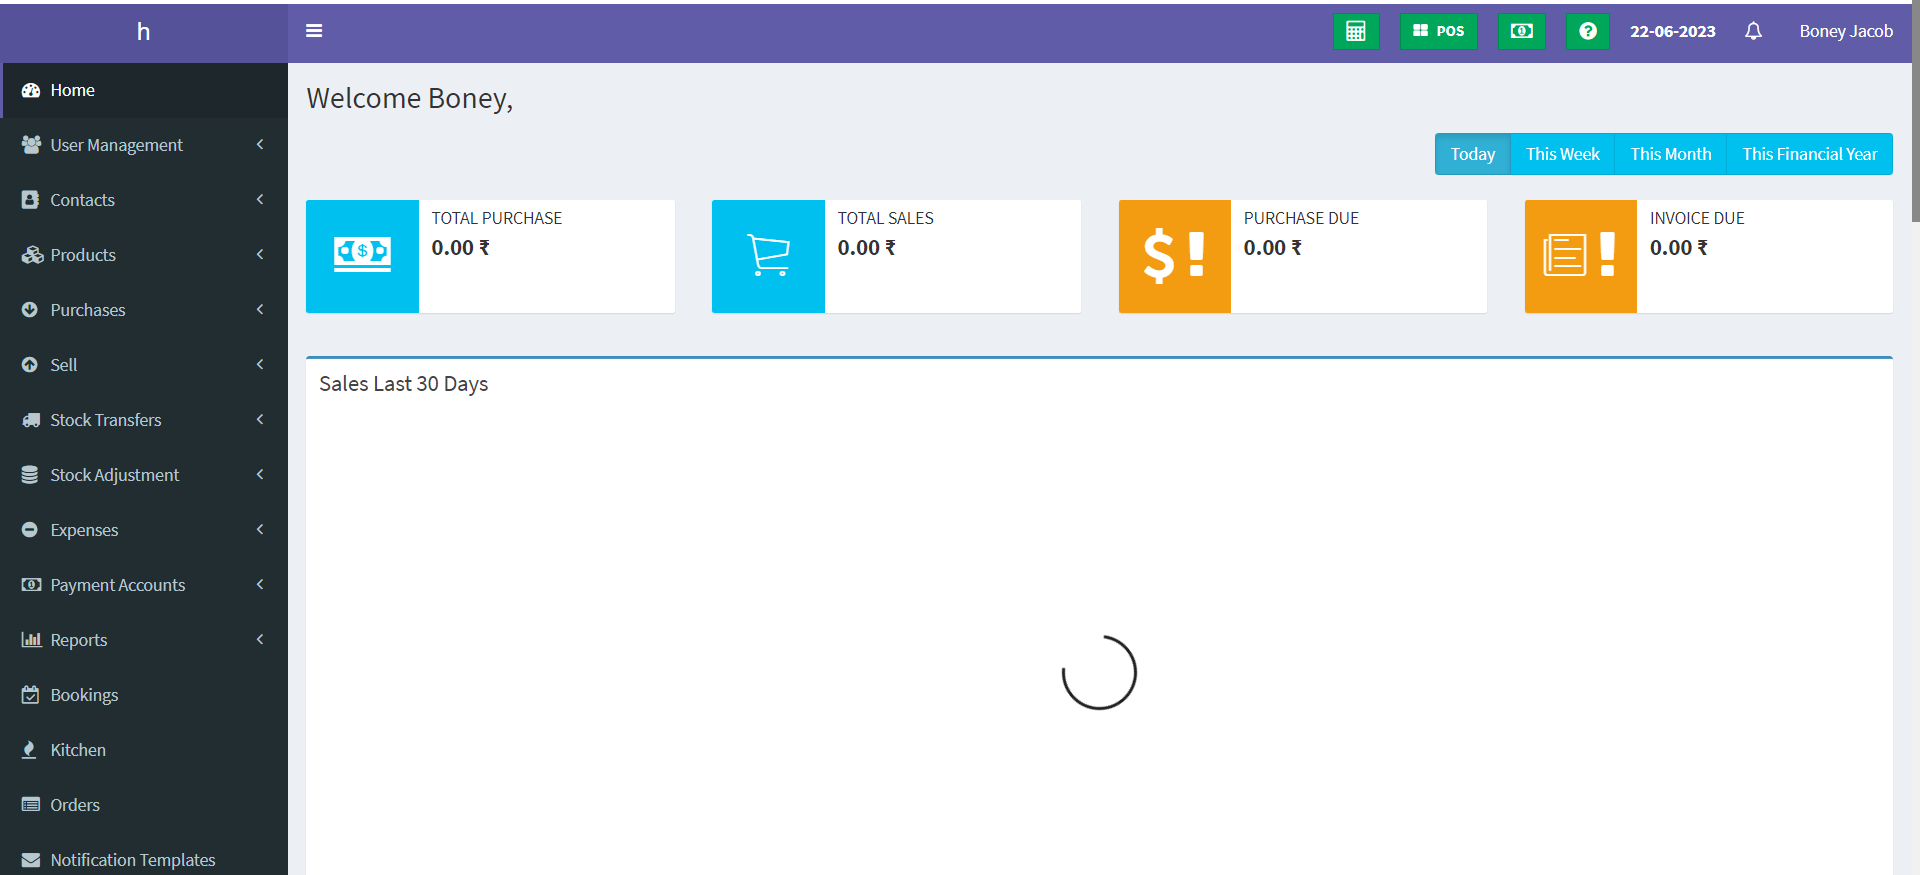
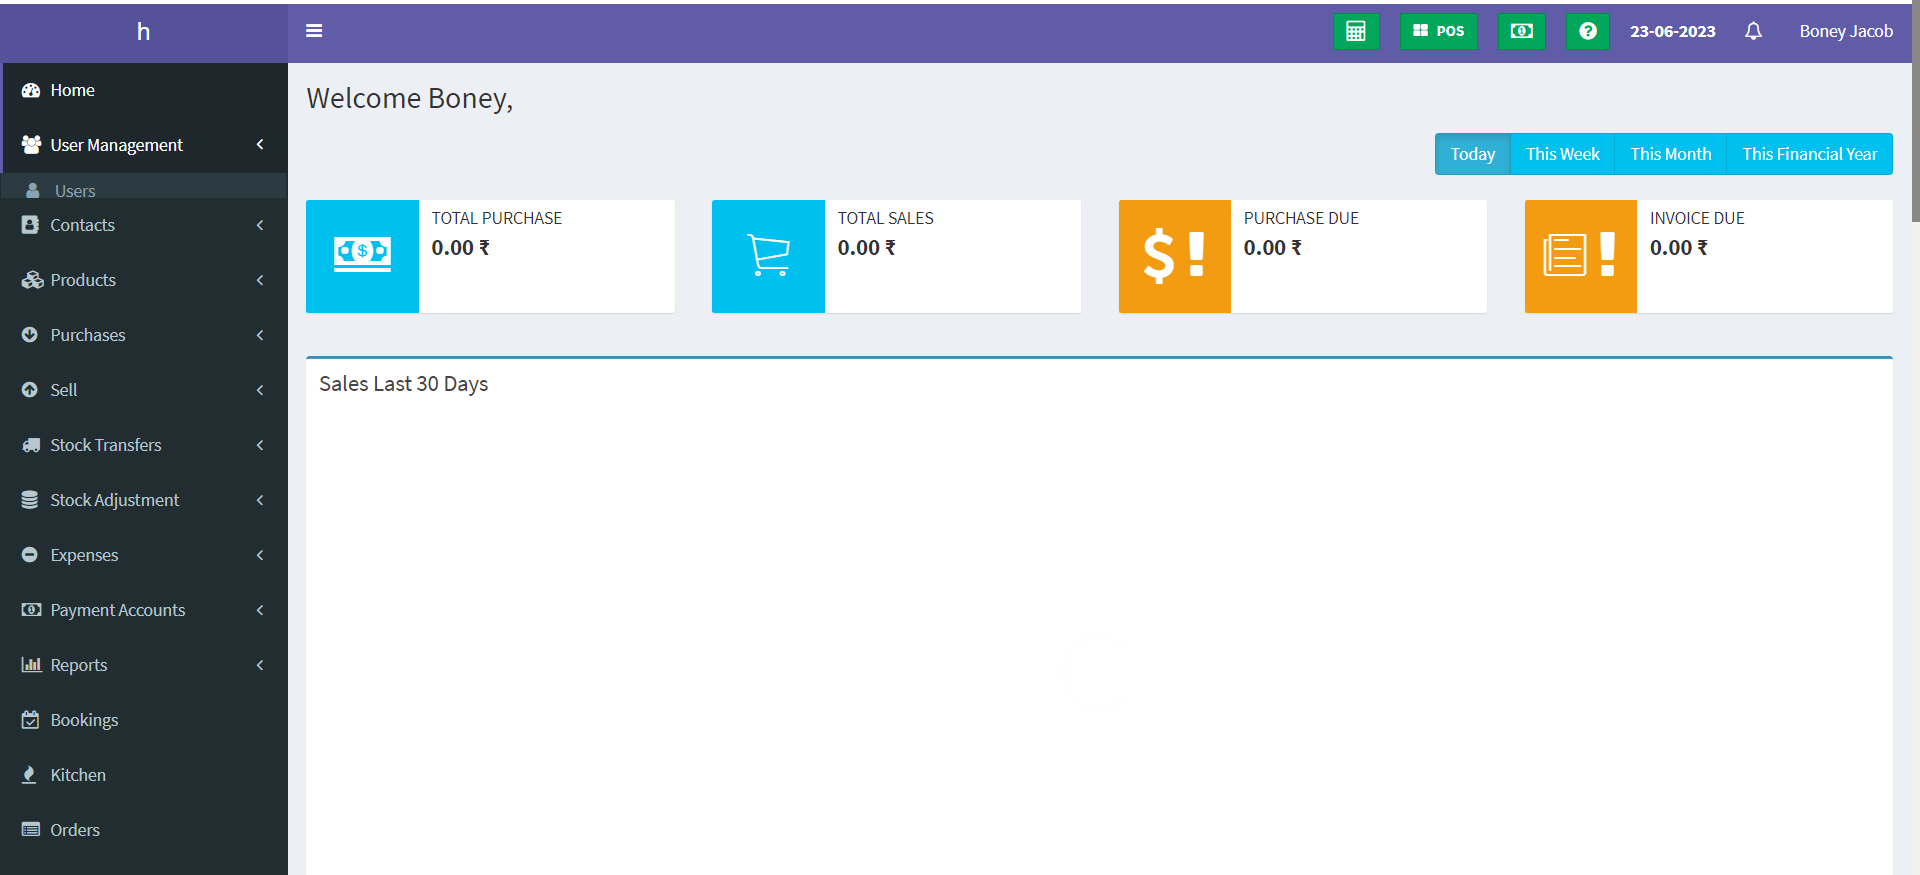
Updated test cases

Changed region(s): [[0.0, 0.216, 0.125, 1.0], [0.0, 0.1543, 0.0938, 0.1851], [0.5625, 0.8023, 0.5938, 0.8331]]

diff --git a/test-output/index.html b/test-output/index.html
@@ -50,7 +50,7 @@
               <ul>
                 <li>
                   <a href="#" panel-name="test-xml-Default_suite" class="navigator-link ">
-                    <span>C:\Users\hp\AppData\Local\Temp\testng-eclipse-1383577407\testng-customsuite.xml</span>
+                    <span>C:\Users\hp\AppData\Local\Temp\testng-eclipse-367124420\testng-customsuite.xml</span>
                   </a> <!-- navigator-link  -->
                 </li>
                 <li>
@@ -137,7 +137,7 @@
         </div> <!-- panel Default_suite -->
         <div panel-name="test-xml-Default_suite" class="panel">
           <div class="main-panel-header rounded-window-top">
-            <span class="header-content">C:\Users\hp\AppData\Local\Temp\testng-eclipse-1383577407\testng-customsuite.xml</span>
+            <span class="header-content">C:\Users\hp\AppData\Local\Temp\testng-eclipse-367124420\testng-customsuite.xml</span>
           </div> <!-- main-panel-header rounded-window-top -->
           <div class="main-panel-content rounded-window-bottom">
             <pre>
@@ -194,12 +194,12 @@ data.addRows(1);
 data.setCell(0, 0, 0)
 data.setCell(0, 1, 'TC_007_verifyInvalidUserSearch')
 data.setCell(0, 2, 'com.QALegendBilling.testscript.UserTest')
-data.setCell(0, 3, 3574);
+data.setCell(0, 3, 8495);
 window.suiteTableData['Default_suite']= { tableData: data, tableDiv: 'times-div-Default_suite'}
 return data;
 }
               </script>
-              <span class="suite-total-time">Total running time: 3 seconds</span>
+              <span class="suite-total-time">Total running time: 8 seconds</span>
               <div id="times-div-Default_suite">
               </div> <!-- times-div-Default_suite -->
             </div> <!-- times-div -->
@@ -234,20 +234,20 @@ return data;
             <div class="chronological-class">
               <div class="chronological-class-name">com.QALegendBilling.testscript.UserTest</div> <!-- chronological-class-name -->
               <div class="configuration-suite before">
-                <span class="method-name">setExtent(org.testng.TestRunner@4b391e45)</span>
+                <span class="method-name">setExtent(org.testng.TestRunner@6d86d1ad)</span>
                 <span class="method-start">0 ms</span>
               </div> <!-- configuration-suite before -->
               <div class="configuration-method before">
                 <span class="method-name">setUP</span>
-                <span class="method-start">620 ms</span>
+                <span class="method-start">621 ms</span>
               </div> <!-- configuration-method before -->
               <div class="test-method">
                 <span class="method-name">TC_007_verifyInvalidUserSearch(boneyj, Accenture@123)</span>
-                <span class="method-start">7532 ms</span>
+                <span class="method-start">16421 ms</span>
               </div> <!-- test-method -->
               <div class="configuration-method after">
                 <span class="method-name">tearDown([TestResult name=TC_007_verifyInvalidUserSearch status=SUCCESS method=UserTest.TC_007_verifyInvalidU...)</span>
-                <span class="method-start">11109 ms</span>
+                <span class="method-start">24917 ms</span>
               </div> <!-- configuration-method after -->
           </div> <!-- main-panel-content rounded-window-bottom -->
         </div> <!-- panel -->

diff --git a/test-output/old/Default suite/methods.html b/test-output/old/Default suite/methods.html
@@ -1,12 +1,12 @@
 <h2>Methods run, sorted chronologically</h2><h3>&gt;&gt; means before, &lt;&lt; means after</h3><p/><br/><em>Default suite</em><p/><small><i>(Hover the method name to see the test class name)</i></small><p/>
 <table border="1">
 <tr><th>Time</th><th>Delta (ms)</th><th>Suite<br>configuration</th><th>Test<br>configuration</th><th>Class<br>configuration</th><th>Groups<br>configuration</th><th>Method<br>configuration</th><th>Test<br>method</th><th>Thread</th><th>Instances</th></tr>
-<tr bgcolor="d076c9">  <td>23/06/22 22:54:24</td>   <td>0</td> <td>&nbsp;</td><td>&nbsp;</td><td>&nbsp;</td><td>&nbsp;</td><td title="&lt;&lt;Base.tearDown(org.testng.ITestResult)[pri:0, instance:com.QALegendBilling.testscript.UserTest@4efc180e]">&lt;&lt;tearDown</td> 
+<tr bgcolor="d076c9">  <td>23/06/24 01:15:11</td>   <td>0</td> <td>&nbsp;</td><td>&nbsp;</td><td>&nbsp;</td><td>&nbsp;</td><td title="&lt;&lt;Base.tearDown(org.testng.ITestResult)[pri:0, instance:com.QALegendBilling.testscript.UserTest@4efc180e]">&lt;&lt;tearDown</td> 
 <td>&nbsp;</td>  <td>main@670663110</td>   <td></td> </tr>
-<tr bgcolor="c2937c">  <td>23/06/22 22:54:21</td>   <td>-3577</td> <td>&nbsp;</td><td>&nbsp;</td><td>&nbsp;</td><td>&nbsp;</td><td>&nbsp;</td><td title="UserTest.TC_007_verifyInvalidUserSearch(java.lang.String,java.lang.String)[pri:0, instance:com.QALegendBilling.testscript.UserTest@4efc180e]">TC_007_verifyInvalidUserSearch</td> 
+<tr bgcolor="d076c9">  <td>23/06/24 01:14:46</td>   <td>-24296</td> <td>&nbsp;</td><td>&nbsp;</td><td>&nbsp;</td><td>&nbsp;</td><td title="&gt;&gt;Base.setUP()[pri:0, instance:com.QALegendBilling.testscript.UserTest@4efc180e]">&gt;&gt;setUP</td> 
+<td>&nbsp;</td>  <td>main@670663110</td>   <td></td> </tr>
+<tr bgcolor="c2937c">  <td>23/06/24 01:15:02</td>   <td>-8496</td> <td>&nbsp;</td><td>&nbsp;</td><td>&nbsp;</td><td>&nbsp;</td><td>&nbsp;</td><td title="UserTest.TC_007_verifyInvalidUserSearch(java.lang.String,java.lang.String)[pri:0, instance:com.QALegendBilling.testscript.UserTest@4efc180e]">TC_007_verifyInvalidUserSearch</td> 
   <td>main@670663110</td>   <td></td> </tr>
-<tr bgcolor="d076c9">  <td>23/06/22 22:54:14</td>   <td>-10488</td> <td>&nbsp;</td><td>&nbsp;</td><td>&nbsp;</td><td>&nbsp;</td><td title="&gt;&gt;Base.setUP()[pri:0, instance:com.QALegendBilling.testscript.UserTest@4efc180e]">&gt;&gt;setUP</td> 
-<td>&nbsp;</td>  <td>main@670663110</td>   <td></td> </tr>
-<tr bgcolor="d076c9">  <td>23/06/22 22:54:13</td>   <td>-11102</td> <td title="&gt;&gt;Base.setExtent(org.testng.ITestContext)[pri:0, instance:com.QALegendBilling.testscript.UserTest@4efc180e]">&gt;&gt;setExtent</td> 
+<tr bgcolor="d076c9">  <td>23/06/24 01:14:46</td>   <td>-24909</td> <td title="&gt;&gt;Base.setExtent(org.testng.ITestContext)[pri:0, instance:com.QALegendBilling.testscript.UserTest@4efc180e]">&gt;&gt;setExtent</td> 
 <td>&nbsp;</td><td>&nbsp;</td><td>&nbsp;</td><td>&nbsp;</td><td>&nbsp;</td>  <td>main@670663110</td>   <td></td> </tr>
 </table>

diff --git a/test-output/old/Default suite/methods-alphabetical.html b/test-output/old/Default suite/methods-alphabetical.html
@@ -1,12 +1,12 @@
 <h2>Methods run, sorted chronologically</h2><h3>&gt;&gt; means before, &lt;&lt; means after</h3><p/><br/><em>Default suite</em><p/><small><i>(Hover the method name to see the test class name)</i></small><p/>
 <table border="1">
 <tr><th>Time</th><th>Delta (ms)</th><th>Suite<br>configuration</th><th>Test<br>configuration</th><th>Class<br>configuration</th><th>Groups<br>configuration</th><th>Method<br>configuration</th><th>Test<br>method</th><th>Thread</th><th>Instances</th></tr>
-<tr bgcolor="c2937c">  <td>23/06/22 22:54:21</td>   <td>0</td> <td>&nbsp;</td><td>&nbsp;</td><td>&nbsp;</td><td>&nbsp;</td><td>&nbsp;</td><td title="UserTest.TC_007_verifyInvalidUserSearch(java.lang.String,java.lang.String)[pri:0, instance:com.QALegendBilling.testscript.UserTest@4efc180e]">TC_007_verifyInvalidUserSearch</td> 
+<tr bgcolor="c2937c">  <td>23/06/24 01:15:02</td>   <td>0</td> <td>&nbsp;</td><td>&nbsp;</td><td>&nbsp;</td><td>&nbsp;</td><td>&nbsp;</td><td title="UserTest.TC_007_verifyInvalidUserSearch(java.lang.String,java.lang.String)[pri:0, instance:com.QALegendBilling.testscript.UserTest@4efc180e]">TC_007_verifyInvalidUserSearch</td> 
   <td>main@670663110</td>   <td></td> </tr>
-<tr bgcolor="d076c9">  <td>23/06/22 22:54:13</td>   <td>-7525</td> <td title="&gt;&gt;Base.setExtent(org.testng.ITestContext)[pri:0, instance:com.QALegendBilling.testscript.UserTest@4efc180e]">&gt;&gt;setExtent</td> 
+<tr bgcolor="d076c9">  <td>23/06/24 01:14:46</td>   <td>-16413</td> <td title="&gt;&gt;Base.setExtent(org.testng.ITestContext)[pri:0, instance:com.QALegendBilling.testscript.UserTest@4efc180e]">&gt;&gt;setExtent</td> 
 <td>&nbsp;</td><td>&nbsp;</td><td>&nbsp;</td><td>&nbsp;</td><td>&nbsp;</td>  <td>main@670663110</td>   <td></td> </tr>
-<tr bgcolor="d076c9">  <td>23/06/22 22:54:14</td>   <td>-6911</td> <td>&nbsp;</td><td>&nbsp;</td><td>&nbsp;</td><td>&nbsp;</td><td title="&gt;&gt;Base.setUP()[pri:0, instance:com.QALegendBilling.testscript.UserTest@4efc180e]">&gt;&gt;setUP</td> 
+<tr bgcolor="d076c9">  <td>23/06/24 01:14:46</td>   <td>-15800</td> <td>&nbsp;</td><td>&nbsp;</td><td>&nbsp;</td><td>&nbsp;</td><td title="&gt;&gt;Base.setUP()[pri:0, instance:com.QALegendBilling.testscript.UserTest@4efc180e]">&gt;&gt;setUP</td> 
 <td>&nbsp;</td>  <td>main@670663110</td>   <td></td> </tr>
-<tr bgcolor="d076c9">  <td>23/06/22 22:54:24</td>   <td>3577</td> <td>&nbsp;</td><td>&nbsp;</td><td>&nbsp;</td><td>&nbsp;</td><td title="&lt;&lt;Base.tearDown(org.testng.ITestResult)[pri:0, instance:com.QALegendBilling.testscript.UserTest@4efc180e]">&lt;&lt;tearDown</td> 
+<tr bgcolor="d076c9">  <td>23/06/24 01:15:11</td>   <td>8496</td> <td>&nbsp;</td><td>&nbsp;</td><td>&nbsp;</td><td>&nbsp;</td><td title="&lt;&lt;Base.tearDown(org.testng.ITestResult)[pri:0, instance:com.QALegendBilling.testscript.UserTest@4efc180e]">&lt;&lt;tearDown</td> 
 <td>&nbsp;</td>  <td>main@670663110</td>   <td></td> </tr>
 </table>

diff --git a/test-output/emailable-report.html b/test-output/emailable-report.html
@@ -9,9 +9,9 @@
 <table>
 <tr><th>Test</th><th># Passed</th><th># Skipped</th><th># Retried</th><th># Failed</th><th>Time (ms)</th><th>Included Groups</th><th>Excluded Groups</th></tr>
 <tr><th colspan="8">Default suite</th></tr>
-<tr><td><a href="#t0">Default test</a></td><td class="num">1</td><td class="num">0</td><td class="num">0</td><td class="num">0</td><td class="num">11,100</td><td></td><td></td></tr>
+<tr><td><a href="#t0">Default test</a></td><td class="num">1</td><td class="num">0</td><td class="num">0</td><td class="num">0</td><td class="num">24,903</td><td></td><td></td></tr>
 </table>
-<table id='summary'><thead><tr><th>Class</th><th>Method</th><th>Start</th><th>Time (ms)</th></tr></thead><tbody><tr><th colspan="4">Default suite</th></tr></tbody><tbody id="t0"><tr><th colspan="4">Default test &#8212; passed</th></tr><tr class="passedeven"><td rowspan="1">com.QALegendBilling.testscript.UserTest</td><td><a href="#m0">TC_007_verifyInvalidUserSearch</a></td><td rowspan="1">1687454661336</td><td rowspan="1">3574</td></tr></tbody>
+<table id='summary'><thead><tr><th>Class</th><th>Method</th><th>Start</th><th>Time (ms)</th></tr></thead><tbody><tr><th colspan="4">Default suite</th></tr></tbody><tbody id="t0"><tr><th colspan="4">Default test &#8212; passed</th></tr><tr class="passedeven"><td rowspan="1">com.QALegendBilling.testscript.UserTest</td><td><a href="#m0">TC_007_verifyInvalidUserSearch</a></td><td rowspan="1">1687549502790</td><td rowspan="1">8495</td></tr></tbody>
 </table>
 <h2>Default test</h2><h3 id="m0">com.QALegendBilling.testscript.UserTest#TC_007_verifyInvalidUserSearch</h3><table class="result"><tr class="param"><th>Parameter #1</th><th>Parameter #2</th></tr><tr class="param stripe"><td>boneyj</td><td>Accenture@123</td></tr></table><p class="totop"><a href="#summary">back to summary</a></p>
 </body>

diff --git a/test-output/Default suite/Default test.html b/test-output/Default suite/Default test.html
@@ -57,9 +57,9 @@ function toggleAllBoxes() {
 <tr>
 <td>Tests passed/Failed/Skipped:</td><td>1/0/0</td>
 </tr><tr>
-<td>Started on:</td><td>Thu Jun 22 22:54:13 IST 2023</td>
+<td>Started on:</td><td>Sat Jun 24 01:14:46 IST 2023</td>
 </tr>
-<tr><td>Total time:</td><td>11 seconds (11100 ms)</td>
+<tr><td>Total time:</td><td>24 seconds (24903 ms)</td>
 </tr><tr>
 <td>Included groups:</td><td></td>
 </tr><tr>
@@ -78,7 +78,7 @@ function toggleAllBoxes() {
 <tr>
 <td title='com.QALegendBilling.testscript.UserTest.TC_007_verifyInvalidUserSearch()'><b>TC_007_verifyInvalidUserSearch</b><br>Test class: com.QALegendBilling.testscript.UserTest<br>Parameters: boneyj, Accenture@123</td>
 <td></td>
-<td>3</td>
+<td>8</td>
 <td>com.QALegendBilling.testscript.UserTest@4efc180e</td></tr>
 </table><p>
 </body>

diff --git a/src/main/java/com/QALegendBilling/pages/HomePage.java b/src/main/java/com/QALegendBilling/pages/HomePage.java
@@ -24,57 +24,78 @@ public class HomePage extends TestHelperUtility {
 	private final String _loginname = "//a[@class='dropdown-toggle']//span";
 	@FindBy(xpath = _loginname)
 	private WebElement loginname;
-	
+
 	private final String _userProfileDropdownButton = "//a[@class='dropdown-toggle']//span";
 	@FindBy(xpath = _userProfileDropdownButton)
 	private WebElement userProfileDropdownButton;
-	
+
 	private final String _signoutButton = "//div[@class='pull-right']//a[@class='btn btn-default btn-flat']";
 	@FindBy(xpath = _signoutButton)
 	private WebElement signoutButton;
-	
+
 	private final String _endTourButton = "//button[@class='btn btn-default btn-sm']";
 	@FindBy(xpath = _endTourButton)
 	private WebElement endTourButton;
-	
+
 	private final String _userManagementDropdownbutton = "//span[@class='title' and text()='User Management']";
 	@FindBy(xpath = _userManagementDropdownbutton)
 	private WebElement userManagementDropdownbutton;
-	
+
 	private final String _userButton = "//a[contains(@href, 'public/users')]";
 	@FindBy(xpath = _userButton)
 	private WebElement userButton;
-	
-	
+
+	private final String _userDropdown = "//i[@class='fa fa-user']//following-sibling::span";
+	@FindBy(xpath = _userDropdown)
+	private WebElement userDropdown;
+
+	private final String _rolesDropdown = "//i[@class='fa fa-briefcase']//following-sibling::span";
+	@FindBy(xpath = _rolesDropdown)
+	private WebElement rolesDropdown;
+
+	private final String _salesCommissionDropdown = "//i[@class='fa fa-handshake-o']//following-sibling::span";
+	@FindBy(xpath = _salesCommissionDropdown)
+	private WebElement salesCommissionDropdown;
+
 	public String getLoginUserName() {
 		String loginUser = page.getElementText(loginname);
 		return loginUser;
 	}
-	
-	public void clickuserProfileDropdownButton()
-	{
+
+	public void clickuserProfileDropdownButton() {
 		userProfileDropdownButton.click();
 	}
-	
-	public void clicksignoutButton()
-	{
+
+	public void clicksignoutButton() {
 		signoutButton.click();
 	}
-	
-	public void clickEndTourButton()
-	{
+
+	public void clickEndTourButton() {
 		endTourButton.click();
 	}
-	
-	public void clickuserManagementDropdownbutton()
-	{
+
+	public void clickuserManagementDropdownbutton() {
 		userManagementDropdownbutton.click();
+		wait.waitForElementToBeVisible(driver, salesCommissionDropdown);
 	}
-	
-	public void clickUserButton()
-	{
-		userButton.click();
-    }
-	
-	
+
+	public void clickUserButton() {
+		userDropdown.click();
+	}
+
+	public boolean userMenuIsDisplayed() {
+		boolean status = userDropdown.isDisplayed();
+		return status;
+	}
+
+	public boolean rolesMenuIsDisplayed() {
+		boolean status = rolesDropdown.isDisplayed();
+		return status;
+	}
+
+	public boolean salesCommissionMenuIsDisplayed() {
+		boolean status = salesCommissionDropdown.isDisplayed();
+		return status;
+	}
+
 }

diff --git a/src/main/java/com/QALegendBilling/pages/UserPage.java b/src/main/java/com/QALegendBilling/pages/UserPage.java
@@ -59,10 +59,11 @@ public class UserPage extends TestHelperUtility
 	private final String _searchUserField = "//input[@class='form-control input-sm']";
 	@FindBy(xpath = _searchUserField)
 	private WebElement searchUserField;
+
 	
-	private final String _invalidUserMessage = "//td[@class='dataTables_empty']";
-	@FindBy(xpath = _invalidUserMessage)
-	private WebElement invalidUserMessage;
+	private final String _invalidSearchText = "//td[@class='dataTables_empty']";
+	@FindBy(xpath = _invalidSearchText)
+	private WebElement invalidSearchText;
 	
 	
 	String fname=random.getfName();
@@ -131,12 +132,15 @@ public class UserPage extends TestHelperUtility
 		String invaliduserfname=random.getfName();
 		String invaliduserlname=random.getlName();
 		page.enterText(searchUserField, invaliduserfname+invaliduserlname);
+		wait.waitForElementToBeVisible(driver, invalidSearchText);
 		
 	}
-	public String getInvalidUserMessage()
+	
+	public String getInvalidSearchText()
 	{
-		String msg=invalidUserMessage.getText();
-		return msg;
+		String invalidtext=invalidSearchText.getText();
+		return invalidtext;
+		
 	}
 	
 

diff --git a/src/test/java/com/QALegendBilling/testscript/Hometest.java b/src/test/java/com/QALegendBilling/testscript/Hometest.java
@@ -32,7 +32,12 @@ public class Hometest extends Base {
 		home.clickEndTourButton();
 		Assert.assertEquals(actUsername, ExpUserLoginName,ErrorMessages.INVALID_LOGIN_MESSAGE);
 		home.clickuserManagementDropdownbutton();
-		
+		boolean userMenuStatus=home.userMenuIsDisplayed();
+		Assert.assertTrue(userMenuStatus,ErrorMessages.INVALID_ERROR_MESSAGE_FOUND);
+		boolean rolesMenuStatus=home.rolesMenuIsDisplayed();
+		Assert.assertTrue(rolesMenuStatus,ErrorMessages.INVALID_ERROR_MESSAGE_FOUND);
+		boolean salesCommissionStatus=home.salesCommissionMenuIsDisplayed();
+		Assert.assertTrue(salesCommissionStatus,ErrorMessages.INVALID_ERROR_MESSAGE_FOUND);
 	}
 	
 }

diff --git a/src/main/java/com/QALegendBilling/utilities/WaitUtility.java b/src/main/java/com/QALegendBilling/utilities/WaitUtility.java
@@ -4,6 +4,7 @@ import java.time.Duration;
 
 import org.openqa.selenium.By;
 import org.openqa.selenium.WebDriver;
+import org.openqa.selenium.WebElement;
 import org.openqa.selenium.support.ui.ExpectedConditions;
 import org.openqa.selenium.support.ui.WebDriverWait;
 
@@ -57,5 +58,9 @@ public class WaitUtility
 	        throw new RuntimeException("Invalid Locator");
 	    }
 	}
+	public  void waitForElementToBeVisible(WebDriver driver, WebElement element){  
+		WebDriverWait wait = new WebDriverWait(driver, Duration.ofSeconds(EXPLICIT_WAIT));
+    wait.until(ExpectedConditions.visibilityOf(element));
+}
 
 }

diff --git a/src/test/java/com/QALegendBilling/testscript/UserTest.java b/src/test/java/com/QALegendBilling/testscript/UserTest.java
@@ -82,6 +82,10 @@ public class UserTest extends Base
 		//String actinvlaidMsg=user.getInvalidUserMessage();
 		List<ArrayList<String>> data1 = ExcelUtility.excelDataReader("UserPageData");
 		String expMsg=data1.get(2).get(0);
+		System.out.println(expMsg);
 		//Assert.assertEquals(actinvlaidMsg, expMsg, ErrorMessages.INVALID_USER_MESSAGE_NOT_FOUND);
+		//td[@class='dataTables_empty']
+		String actMsg=user.getInvalidSearchText();
+		Assert.assertEquals(actMsg, expMsg, ErrorMessages.INVALID_USER_MESSAGE_NOT_FOUND);
 	}
 }

diff --git a/src/test/java/com/QALegendBilling/automationcore/Base.java b/src/test/java/com/QALegendBilling/automationcore/Base.java
@@ -63,7 +63,7 @@ public class Base {
 			File screenshot = takeScreenshot.getScreenshotAs(OutputType.FILE);
 			FileUtils.copyFile(screenshot, new File("./Screenshots/" + result.getName() + ".png"));
 		}
-		driver.quit();
+		//driver.quit();
 	}
 
 	@BeforeSuite
